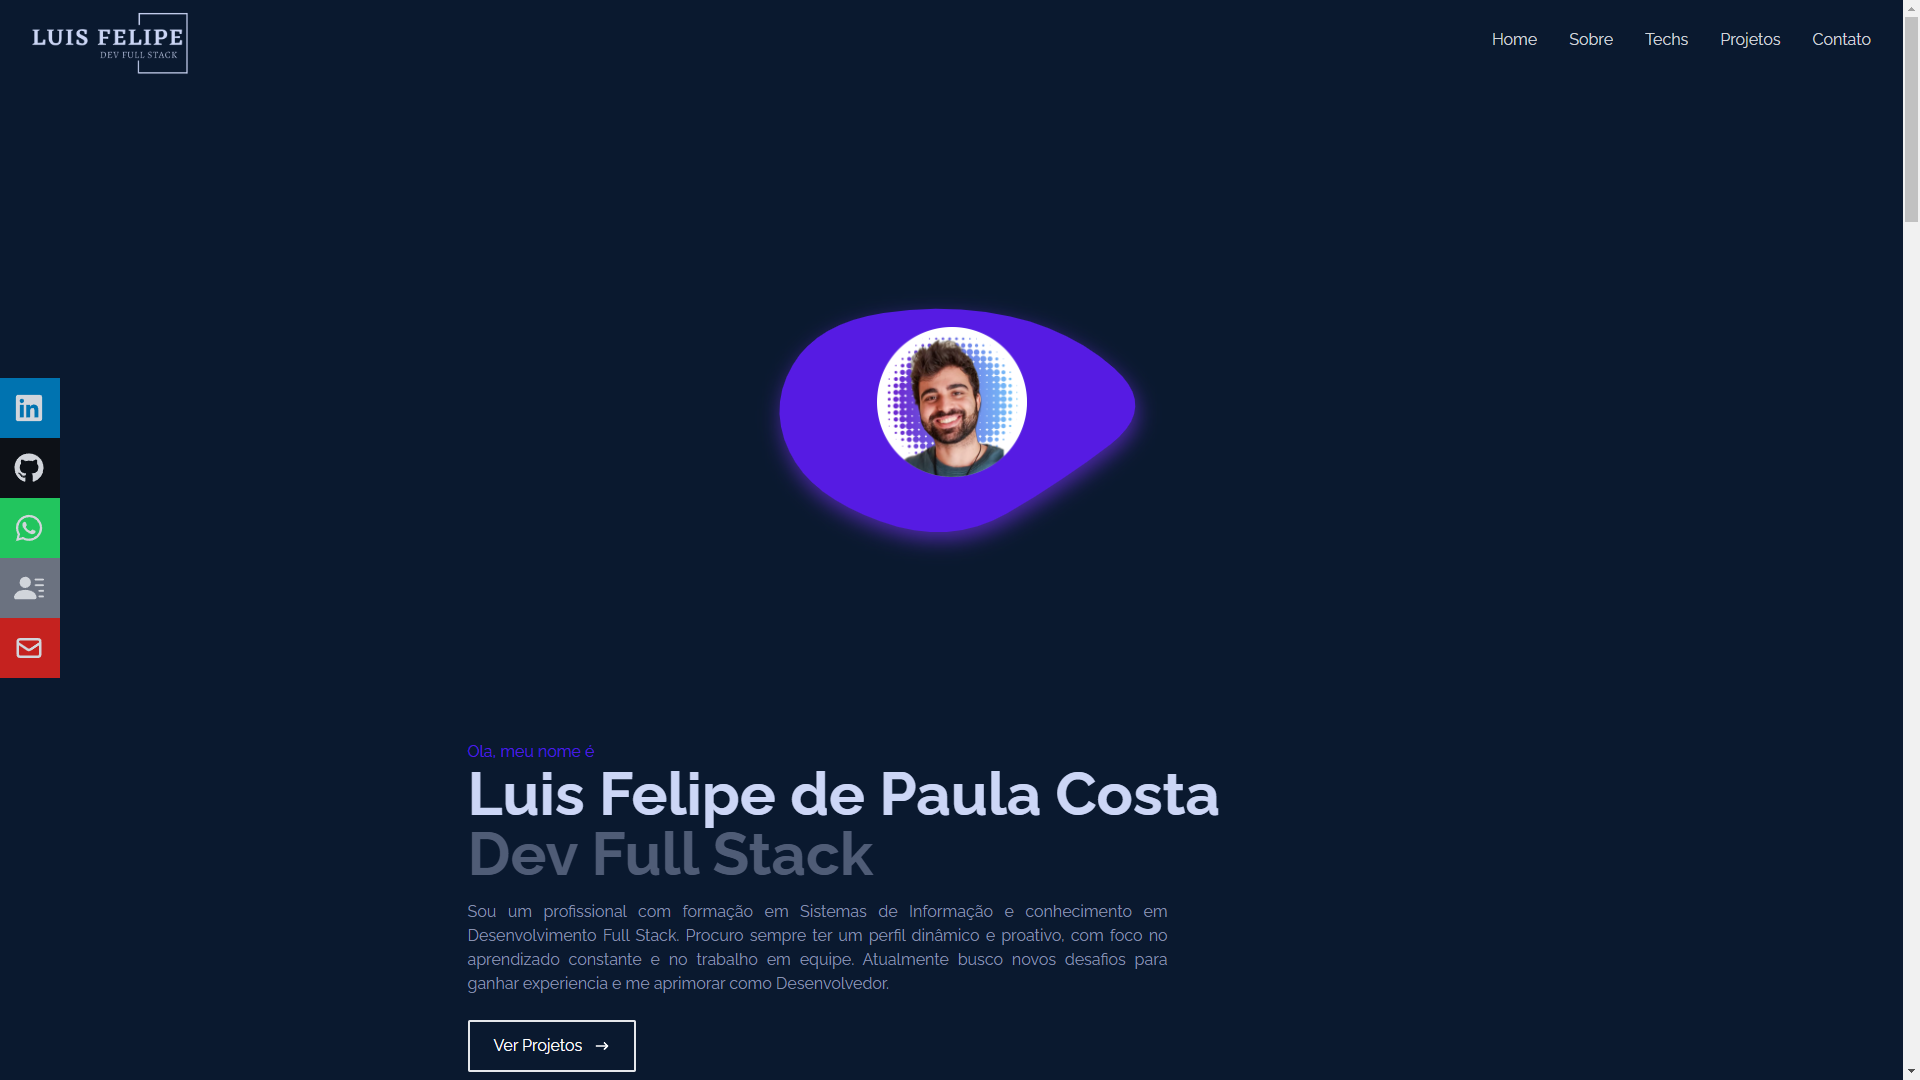
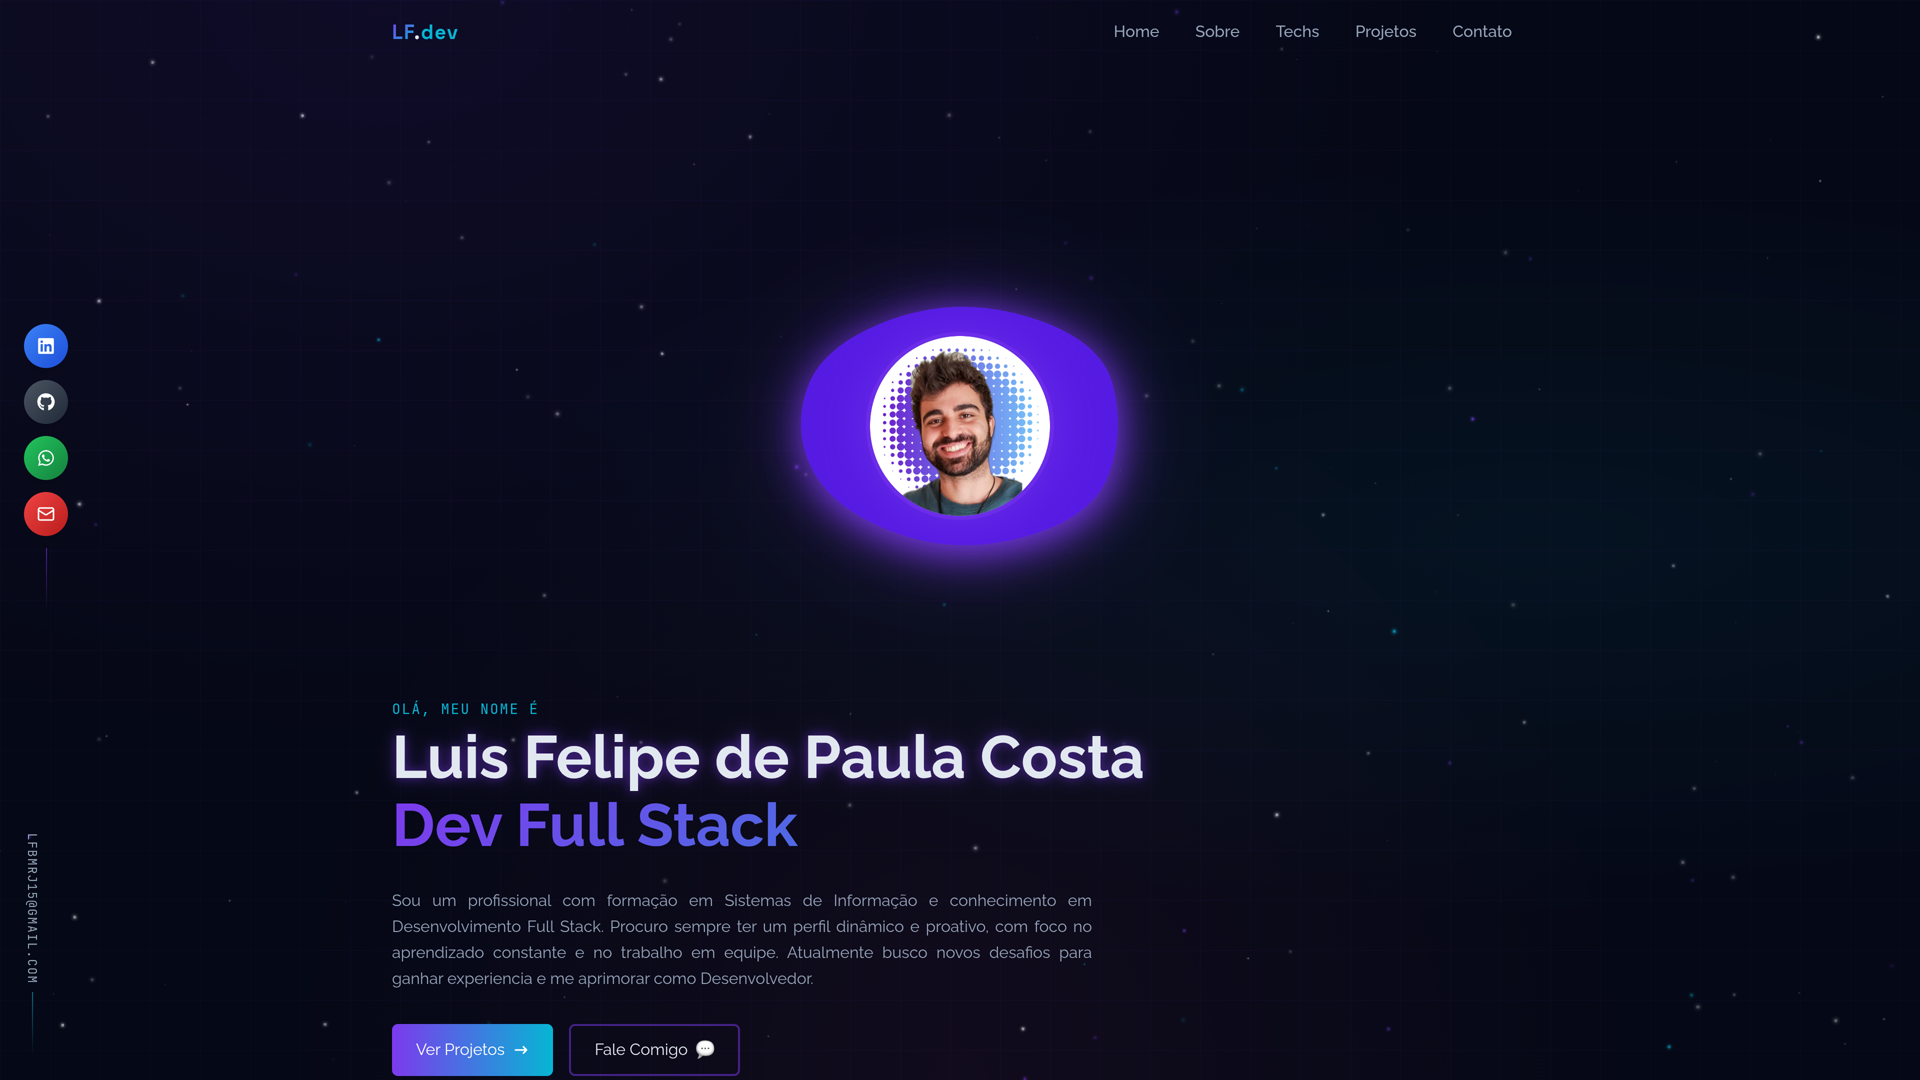
feat(portfolio): refresh project highlights and screenshots

diff --git a/src/components/Projects.jsx b/src/components/Projects.jsx
@@ -16,6 +16,16 @@ import SiteFabricaOculos from "../assets/projects/site-fabrica-oculos.png";
 
 const PROJECTS = [
   {
+    title: "Fábrica de Óculos",
+    subtitle: "Sistema de óculos gratuito",
+    img: SiteFabricaOculos,
+    link: "https://fabricadeoculos.barramansa.rj.gov.br/",
+    codigo: null, // repo privado
+    category: "Profissionais",
+    tech: ["Next.js", "Prisma", "PostgreSQL", "Better Auth", "Shadcn"],
+    featured: true,
+  },
+  {
     title: "GIP",
     subtitle: "Gestão Interna de Processos",
     img: SiteGip,
@@ -44,15 +54,6 @@ const PROJECTS = [
     category: "Profissionais",
     tech: ["Next.js", "Prisma", "PostgreSQL", "Better Auth", "Shadcn"],
     featured: true,
-  },
-  {
-    title: "Fábrica de Óculos",
-    subtitle: "Sistema de óculos gratuito",
-    img: SiteFabricaOculos,
-    link: "https://fabricadeoculos.barramansa.rj.gov.br/",
-    codigo: null, // repo privado
-    category: "Profissionais",
-    tech: ["Next.js", "Prisma", "PostgreSQL", "Better Auth", "Shadcn"],
   },
   {
     title: "Coffee Delivery",
